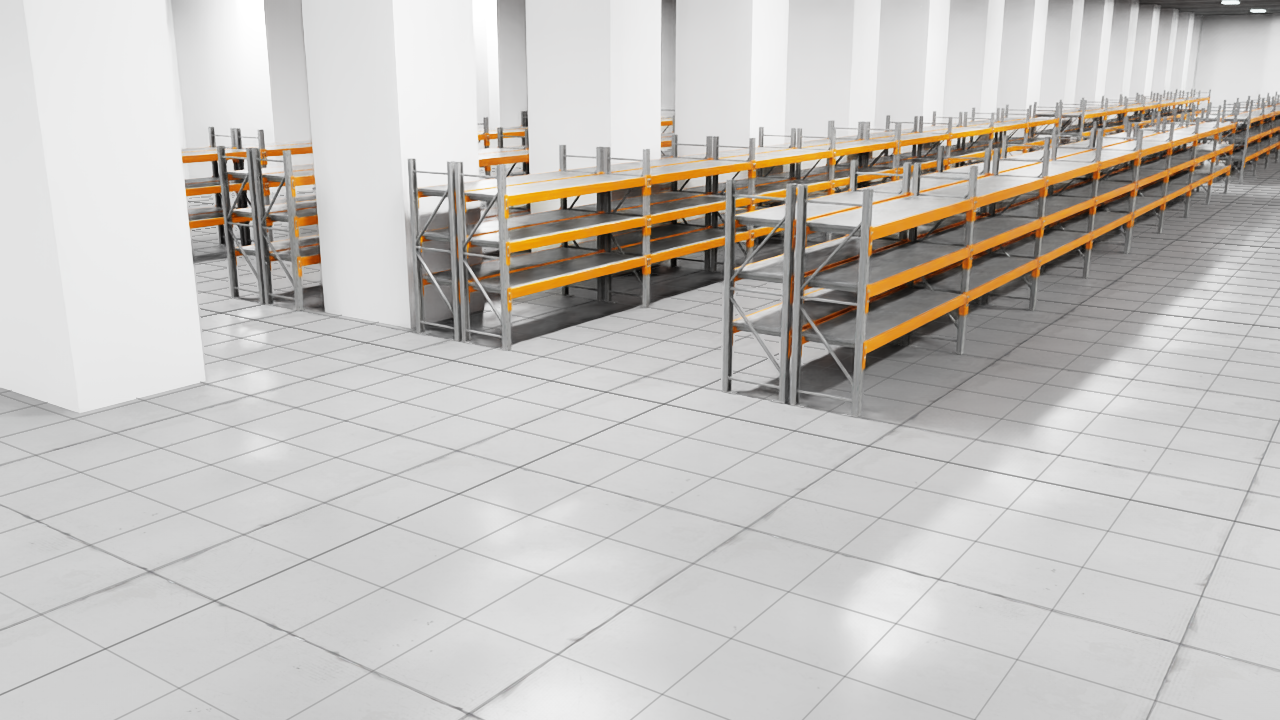
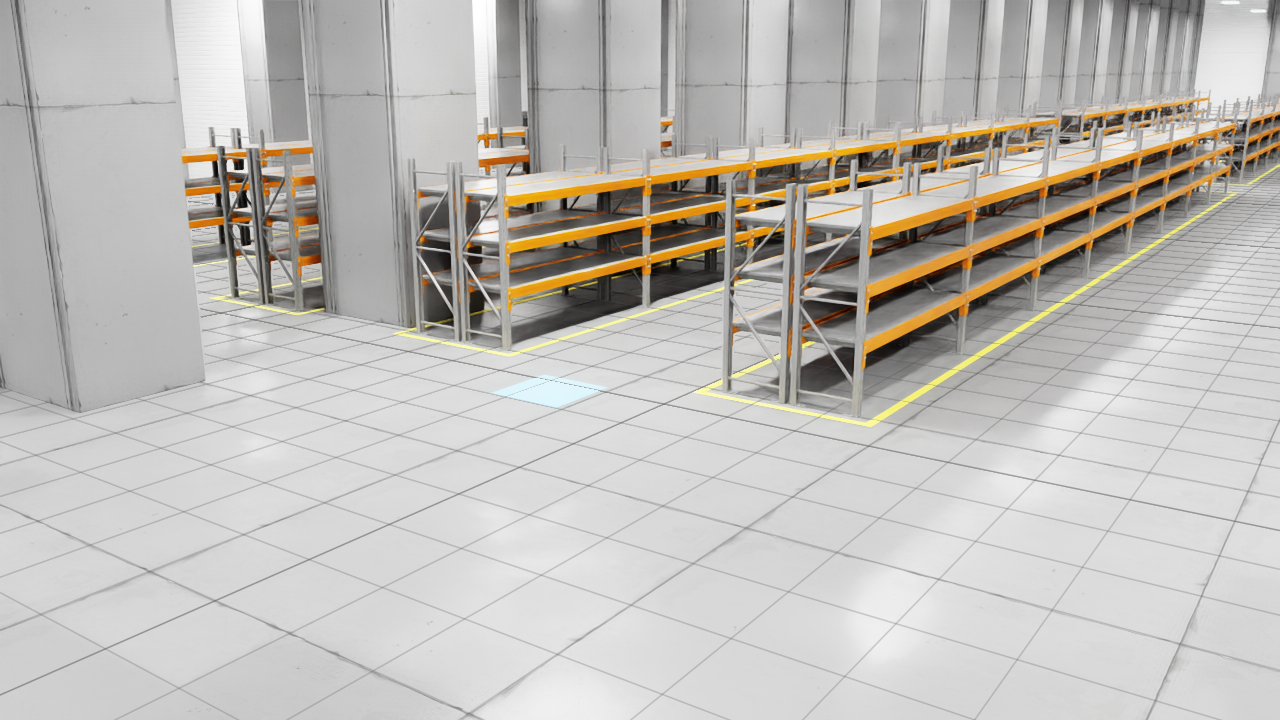
feat: 씬 개선 2차 — 천장 제거·벽 12m·텍스처 정상화·바닥 마킹·컨베이어 에셋
- 천장 제거 + 태양광 복귀(개방 지붕), 현수등 48기 유지, 벽·기둥 12m 승고
- 벽 단색 원인 해결: Cube prim은 UV가 없어 텍스처가 뭉개짐 → 타일링 UV 박스
  메시로 교체(벽 238 + 기둥 4,267, 기둥은 MI_WallB로 재질 분리)
- 바닥 마킹 52개: 렉 블록 안전선(황) + 스테이션 마킹(청) — grid 데이터에서 자동 생성
- 컨베이어: ConveyorBelt_A08 정적 비주얼 20섹션 + 기존 콜라이더 박스 투명화
  (V&V·플래너 기준 불변 — 재확인 100%/98.6%/0셀)
- 교훈: 참조 에셋 루트에 자체 xformOpOrder가 있으면 동명 op 추가가 예외(A08)
  → 래퍼 Xform으로 이동 분리 · kit은 파이썬 예외에도 exit 0 — 성공 판정은 로그 마커로

diff --git a/sil/t3_warehouse/build_scene.py b/sil/t3_warehouse/build_scene.py
@@ -39,9 +39,14 @@ FRAME_USD = ASSETS + "/Isaac/Environments/Simple_Warehouse/Props/SM_RackFrame_03
 MAT_DIR = ASSETS + "/Isaac/Environments/Simple_Warehouse/Materials"
 
 CELL = 0.1                      # m/셀 (map_gen과 동일)
-WALL_H = 8.0                    # 산업 표준고 가정 (도면에 층고 정보 없음 — 시각용, 라이다 무관)
-CEIL_Z = 8.0                    # 천장 슬래브 하단
-CONV_H = 0.9                    # 라이다 평면(0.7m) 위 — 가시
+WALL_H = 12.0                   # 산업 고층고 가정 (도면에 층고 정보 없음 — 시각용, 라이다 무관)
+CONV_H = 0.9                    # 라이다 평면(0.7m) 위 — 가시(콜라이더)
+
+# 컨베이어 비주얼 — ConveyorBelt_A08 직선 섹션 (컴포즈 실측 2.719x1.15x1.17, 피벗 동측 끝)
+CONV_USD = ASSETS + "/Isaac/Props/Conveyors/ConveyorBelt_A08.usd"
+CONV_SEC_L = 2.719
+CONVEYORS_VIS = [(14.6, 38.9, 16.0), (14.6, 70.9, 16.0),
+                 (94.6, 43.1, 15.0), (94.6, 75.1, 15.0)]   # (x시작, y하단, 길이) — map_gen v6.3 동일
 RACK_UNIT_L = 16.13
 RACK_D = 1.08
 BAY = 4.0                       # 베이 피치 (16.13 = 4x4.0 + 0.13 프레임 마진)
@@ -97,6 +102,31 @@ def add_box(stage, path, x, y, w, h, z0, z1, collide=True):
     return cube
 
 
+def add_box_mesh(stage, path, x, y, w, h, z0, z1, uv_scale=4.0):
+    """타일링 UV를 가진 박스 메시(옆 4면+윗면) + 콜라이더 — Cube prim은 UV가 없어
+    텍스처 재질이 단색으로 뭉개진다(실측). 벽·기둥용."""
+    mesh = UsdGeom.Mesh.Define(stage, path)
+    x1, y1 = x + w, y + h
+    pts = [(x, y, z0), (x1, y, z0), (x1, y1, z0), (x, y1, z0),
+           (x, y, z1), (x1, y, z1), (x1, y1, z1), (x, y1, z1)]
+    faces = [(0, 1, 5, 4), (1, 2, 6, 5), (2, 3, 7, 6), (3, 0, 4, 7), (4, 5, 6, 7)]
+    mesh.CreatePointsAttr(pts)
+    mesh.CreateFaceVertexCountsAttr([4] * 5)
+    mesh.CreateFaceVertexIndicesAttr([i for f in faces for i in f])
+    mesh.CreateExtentAttr([(x, y, z0), (x1, y1, z1)])
+    mesh.CreateDoubleSidedAttr(True)
+    hz = (z1 - z0) / uv_scale
+    st = []
+    for d in (w, h, w, h):
+        u = d / uv_scale
+        st += [(0, 0), (u, 0), (u, hz), (0, hz)]
+    st += [(0, 0), (w / uv_scale, 0), (w / uv_scale, h / uv_scale), (0, h / uv_scale)]
+    UsdGeom.PrimvarsAPI(mesh).CreatePrimvar(
+        "st", Sdf.ValueTypeNames.TexCoord2fArray, UsdGeom.Tokens.faceVarying).Set(st)
+    UsdPhysics.CollisionAPI.Apply(mesh.GetPrim())
+    return mesh
+
+
 def add_quad(stage, path, x0, y0, x1, y1, z, uv_scale, flip=False):
     """수평 사각 메시 + 타일링 UV (uv_scale m당 텍스처 1회) — 바닥·천장 시각용."""
     mesh = UsdGeom.Mesh.Define(stage, path)
@@ -144,10 +174,11 @@ W, H = COLS * CELL, ROWS * CELL
 add_box(stage, "/World/ground", -5, -5, W + 10, H + 10, -0.11, -0.01)
 floor = add_quad(stage, "/World/floor", -5, -5, W + 5, H + 5, 0.0, uv_scale=4.0)
 bind_mdl(stage, floor, "MI_Floor_01", MAT_DIR + "/MI_Floor_01.mdl")
-ceil = add_quad(stage, "/World/ceiling", 0, 0, W, H, CEIL_Z, uv_scale=6.0, flip=True)
-bind_mdl(stage, ceil, "MI_CeilingA_06b", MAT_DIR + "/MI_CeilingA_06b.mdl")
 
-# 실내 조명 그리드 — 천장 직하 RectLight + 발광 등기구 (전부 z 7.8~7.95, 라이다 밴드 밖)
+# 개방 지붕 — 태양광(그림자·전역 밝기) + 조명 그리드(현수등, z 7.8~7.95 라이다 밴드 밖)
+sun = UsdLux.DistantLight.Define(stage, "/World/sun")
+sun.CreateIntensityAttr(1200)
+UsdGeom.Xformable(sun.GetPrim()).AddRotateXYZOp().Set(Gf.Vec3f(0, -35, 25))
 UsdGeom.Xform.Define(stage, "/World/lights")
 n_light = 0
 for gx in range(18, 111, 12):
@@ -165,23 +196,44 @@ for gx in range(18, 111, 12):
 fixtures = stage.GetPrimAtPath("/World/lights")
 bind_mdl(stage, fixtures, "M_Glow", MAT_DIR + "/M_Glow.mdl")
 dome = UsdLux.DomeLight.Define(stage, "/World/dome")
-dome.CreateIntensityAttr(250)                             # 외부·틈새 보조광
-print(f"[0] 드레싱: 바닥·천장 재질 + 조명 {n_light}기")
+dome.CreateIntensityAttr(250)                             # 하늘 보조광
+print(f"[0] 드레싱: 바닥 재질 + 태양 + 현수등 {n_light}기")
 
 # 1) 벽·기둥 (셀값 1)
 walls = greedy_rects(grid == 1)
 walls_xf = UsdGeom.Xform.Define(stage, "/World/walls")
+cols_xf = UsdGeom.Xform.Define(stage, "/World/columns")
+n_colbox = 0
 for i, (r0, c0, h, w) in enumerate(walls):
-    add_box(stage, f"/World/walls/w_{i}", c0 * CELL, r0 * CELL, w * CELL, h * CELL, 0.0, WALL_H)
+    small = w * CELL < 2.2 and h * CELL < 2.2             # 기둥(심볼 파편) — 별도 재질로 구분
+    parent = "columns" if small else "walls"
+    add_box_mesh(stage, f"/World/{parent}/w_{i}", c0 * CELL, r0 * CELL, w * CELL, h * CELL, 0.0, WALL_H)
+    n_colbox += small
 bind_mdl(stage, walls_xf, "MI_WallA_01", MAT_DIR + "/MI_WallA_01.mdl")
-print(f"[1] 벽·기둥 박스 {len(walls)}개")
+bind_mdl(stage, cols_xf, "MI_WallB_01", MAT_DIR + "/MI_WallB_01.mdl")
+print(f"[1] 벽 {len(walls) - n_colbox} + 기둥 {n_colbox} (타일링 UV 메시)")
 
 # 2) 컨베이어 (셀값 5)
 convs = greedy_rects(grid == 5)
 UsdGeom.Xform.Define(stage, "/World/conveyors")
 for i, (r0, c0, h, w) in enumerate(convs):
-    add_box(stage, f"/World/conveyors/c_{i}", c0 * CELL, r0 * CELL, w * CELL, h * CELL, 0.0, CONV_H)
-print(f"[2] 컨베이어 박스 {len(convs)}개")
+    b = add_box(stage, f"/World/conveyors/c_{i}", c0 * CELL, r0 * CELL, w * CELL, h * CELL, 0.0, CONV_H)
+    UsdGeom.Imageable(b.GetPrim()).MakeInvisible()        # 콜라이더 전용 — 비주얼은 실물 에셋
+# 정적 비주얼 — 기능 없는 모양용 (V&V·플래너는 위 콜라이더 박스 기준 그대로)
+n_sec = 0
+for ci, (cx0, cy0, clen) in enumerate(CONVEYORS_VIS):
+    yc = cy0 + 0.45
+    n = int(clen // CONV_SEC_L)
+    sx = cx0 + (clen - n * CONV_SEC_L) / 2
+    for k in range(n):
+        # A08 루트에 자체 xformOpOrder가 있어 같은 op 추가가 예외 — 래퍼 Xform이 이동 담당
+        w_xf = UsdGeom.Xform.Define(stage, f"/World/conveyors/vis{ci}_{k}")
+        UsdGeom.Xformable(w_xf.GetPrim()).AddTranslateOp().Set(
+            Gf.Vec3d(sx + k * CONV_SEC_L + 2.719, yc, 0.0))   # 에셋 피벗 = 동측 끝(x -2.719~0)
+        c = UsdGeom.Xform.Define(stage, f"/World/conveyors/vis{ci}_{k}/asset")
+        c.GetPrim().GetReferences().AddReference(CONV_USD)
+        n_sec += 1
+print(f"[2] 컨베이어: 콜라이더 박스 {len(convs)}(투명) + 비주얼 섹션 {n_sec}")
 
 # 3) 렉 — 부품 조립 (rack_rows: [x시작, y하단, 유닛수] / 행폭 2xRACK_D 더블)
 UsdGeom.Xform.Define(stage, "/World/racks")
@@ -211,6 +263,26 @@ for bi, (xs, yb, n_units) in enumerate(rack_rows):
                     UsdGeom.Xformable(p.GetPrim()).AddTranslateOp().Set(Gf.Vec3d(cx, yc, dz))
                     n_shelf += 1
 print(f"[3] 렉 조립: 프레임 {n_frame} + 데크 {n_shelf}", flush=True)
+
+# 바닥 마킹 — 렉 블록 안전선(황) + 스테이션 마킹(청): 시인성 + 레이아웃 데이터의 시각화
+UsdGeom.Xform.Define(stage, "/World/markings")
+n_mark = 0
+LW = 0.12
+for bi, (xs, yb, nu) in enumerate(rack_rows):
+    bx0, by0 = xs - 0.27, yb - 0.27
+    bx1, by1 = xs + int(nu) * RACK_UNIT_L + 0.27, yb + 2 * RACK_D + 0.27
+    for j, (qx0, qy0, qx1, qy1) in enumerate([
+            (bx0, by0, bx1, by0 + LW), (bx0, by1 - LW, bx1, by1),
+            (bx0, by0, bx0 + LW, by1), (bx1 - LW, by0, bx1, by1)]):
+        q = add_quad(stage, f"/World/markings/rk{bi}_{j}", qx0, qy0, qx1, qy1, 0.01, 4.0)
+        UsdGeom.Gprim(q.GetPrim()).CreateDisplayColorAttr([(1.0, 0.78, 0.05)])
+        n_mark += 1
+for i, (r0, c0, hh, ww) in enumerate(greedy_rects(grid == 3)):
+    q = add_quad(stage, f"/World/markings/st{i}", c0 * CELL, r0 * CELL,
+                 (c0 + ww) * CELL, (r0 + hh) * CELL, 0.012, 4.0)
+    UsdGeom.Gprim(q.GetPrim()).CreateDisplayColorAttr([(0.15, 0.45, 0.9)])
+    n_mark += 1
+print(f"[3c] 바닥 마킹 {n_mark}개 (안전선·스테이션)")
 
 # 4) 저작 저장 → 완성 파일을 컨텍스트로 오픈 (참조 일괄 로딩)
 stage.GetRootLayer().Save()
@@ -306,12 +378,8 @@ def shoot(pos, rot, fname, focal=18.0):
     print(f"[6] {fname} {'OK' if os.path.exists(path) else '캡처 실패'}")
 
 
-# 탑뷰는 천장을 잠시 숨기고 촬영
-ceil_img = UsdGeom.Imageable(stage.GetPrimAtPath("/World/ceiling"))
-ceil_img.MakeInvisible()
 shoot((COLS * CELL / 2, ROWS * CELL / 2, 120), (0, 0, 0), "scene_top.png", focal=24.0)
-ceil_img.MakeVisible()
-shoot((18, 42, 4.5), (75, 0, -55), "scene_persp.png")    # 실내 조감 (천장 8m 아래)
+shoot((18, 42, 4.5), (75, 0, -55), "scene_persp.png")    # 실내 조감
 shoot((60, 47, 1.2), (87, 0, -90 + 12), "scene_aisle.png", focal=14.0)
 
 app.close()
